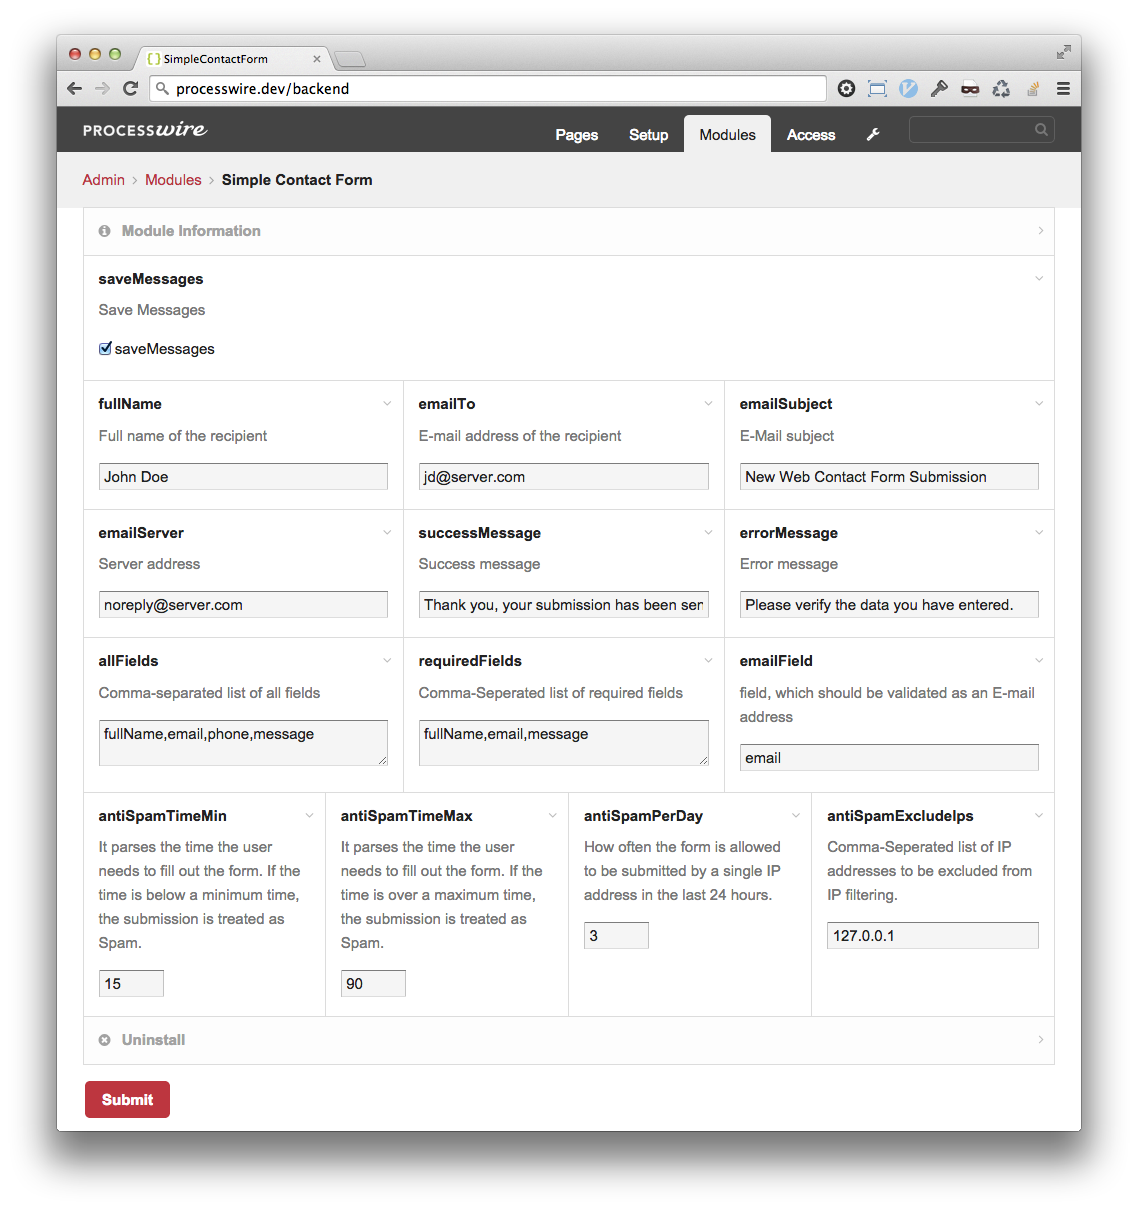
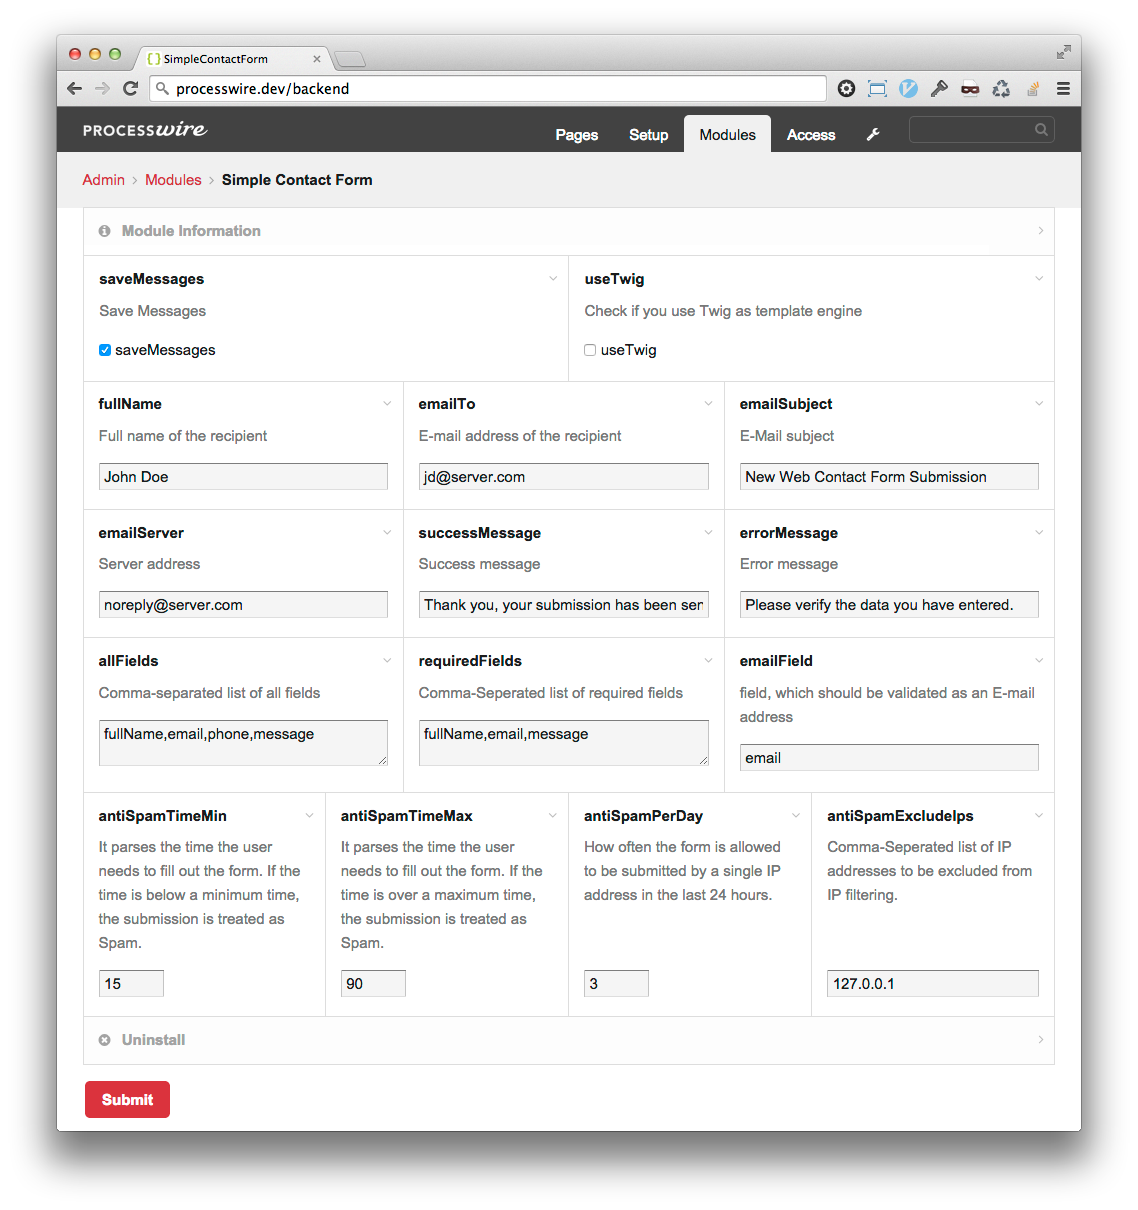
adding template exists check

diff --git a/README.md b/README.md
@@ -2,49 +2,60 @@
 
 ## Overview:
 
-Just a simple contact form using Twig (TemplateTwigReplace). Not more and not less.
-See the instructions here: [TemplateTwigReplace](http://modules.processwire.com/modules/template-twig-replace)
+Just a simple contact form. Optional support for Twig ([TemplateTwigReplace](http://modules.processwire.com/modules/template-twig-replace)) as template engine. Not more and not less.
 
-Designed for use with ProcessWire 2.4
-[http://processwire.com](http://processwire.com)
+Designed for use with [ProcessWire](http://processwire.com) version 2.5  
+Current version: 0.0.6 stable
 
-## Installation and Usage:
+## Installation:
 
 1. Clone the module and place SimpleContactForm in your site/modules/ directory. 
 
-```
-git clone https://github.com/justonestep/processwire-simplecontactform.git your/path/site/modules/SimpleContactForm
-```
+	```
+	git clone https://github.com/justonestep/processwire-simplecontactform.git your/path/site/modules/SimpleContactForm
+	```
 
 2. Login to ProcessWire admin and click Modules. 
 3. Click "Check for new modules".
 4. Click "install" next to the new SimpleContactForm module. 
 5. Enter settings similar to the example below:
 
-```
-saveMessages: whether to save received messages
-fullName: Firstname Lastname
-emailTo: xxx@xxx.xx
-emailSubject: New Web Contact Form Submission
-successMessage: Thank you, your submission has been sent
-errorMessage: Please verify the data you have entered
-emailServer: noreply@xxx.xx
-allFields: fullName,email,message
-requiredFields: fullName,email,message
-emailField: email
-antiSpamTimeMin: It parses the time the user needs to fill out the form. If the time is below a minimum time, the submission is treated as Spam.
-antiSpamTimeMax: It parses the time the user needs to fill out the form. If the time is over a maximum time, the submission is treated as Spam.
-antiSpamPerDay: How often the form is allowed to be submitted by a single IP address in the last 24 hours.
-antiSpamExcludeIps: Comma-Seperated list of IP addresses to be excluded from IP filtering.
-```
+| setting            | description                                                                                                                      |
+|--------------------|----------------------------------------------------------------------------------------------------------------------------------|
+| saveMessages       | whether to save received messages                                                                                                |
+| useTwig            | Check if you use Twig as template engine                                                                                         |
+| fullName           | Firstname Lastname                                                                                                               |
+| emailTo            | xxx@xxx.xx                                                                                                                       |
+| emailSubject       | New Web Contact Form Submission                                                                                                  |
+| successMessage     | Thank you, your submission has been sent                                                                                         |
+| errorMessage       | Please verify the data you have entered                                                                                          |
+| errorMessage       | noreply@xxx.xx                                                                                                                   |
+| allFields          | fullName,email,message                                                                                                           |
+| requiredFields     | fullName,email,message                                                                                                           |
+| emailField         | email                                                                                                                            |
+| antiSpamTimeMin    | It parses the time the user needs to fill out the form.  If the time is below a minimum time, the submission is treated as Spam. |
+| antiSpamTimeMax    | It parses the time the user needs to fill out the form.  If the time is over a maximum time, the submission is treated as Spam.  |
+| antiSpamPerDay     | How often the form is allowed to be submitted by a single IP address in the last 24 hours.                                       |
+| antiSpamExcludeIps | Comma-Seperated list of IP addresses to be excluded from IP filtering.                                                           |
 
-These fields will be rendered automatically.
-Therefore a new template called `simple_contact_form.twig` will be created in your `site/templates` directory.
+### New Template "simple_contact_form"
+
+* change type="input" due to your own needs
+* hide following fields using css: scf-website, submitted
+* make sure to mainain the names of the fields
+
+tl;dr: These fields will be rendered automatically.
+Therefore a new template called `simple_contact_form.twig` / `simple_contact_form.php` will be created in your `site/templates` directory.
 All fields in this new template will be simple inputs temporarily.
 Once created you can/should modify the template as well as the fields to your own needs, 
-just make sure to maintain the names of the fields.
+just make sure to maintain the names of the fields. 
 
-If `saveMessages` is enabled, a new page `scf-messages` will be created.
+### saveMessages enabled? 
+
+* new page **scf-messages** (your-url.xx/scf-messages)
+* new template **simple_contact_form**
+
+tl;dr: If `saveMessages` is enabled, a new page `scf-messages` will be created.
 Also a new repeater field containing all set up fields is added.
 For each received message a new repeater element is stored.
 The new template `simple_contact_form_messages.twig` which is created for this page checks 
@@ -54,34 +65,41 @@ Otherwise the user will be redirected to the root page.
 Failing that the user will be redirected to the root page.
 You can modify that templates for your own needs.
 
-6. Create a template for your contact form page (if you don't already have one).
-7. Add the fields you want to use to this template as you are used to.
-8. In the template add just one line to include the form:
+## Usage:
 
-```
-{{modules.get('SimpleContactForm').render()}}
-```
+1. Create a template for your contact form page (if you don't already have one).
+2. Add the fields you want to use to this template as you are used to.
+3. In the template add just one line to include the form:
 
-9. If you want to send the form via ajax, include jquery.simplecontactform.js and call it:
+	```php
+	{{modules.get('SimpleContactForm').render()}} // twig
+	$content = $modules->get('SimpleContactForm')->render(); //php
+	```
 
-```
-if ($('.js-simplecontactform').length) {
-	$.simplecontactform($('.js-simplecontactform'));
-}
-```
+4. If you want to send the form via ajax, include jquery.simplecontactform.js and call it:
 
-To get just the necessary part, modify yout template like this:
+	```javascript
+	if ($('.js-simplecontactform').length) {
+		$.simplecontactform($('.js-simplecontactform'));
+	}
+	```
 
-```
-{% if config.ajax %}
-	{{modules.get('SimpleContactForm').render()}}
-{% else %}
-	{# normal stuff ... #}
-{% endif %}
-```
+	To get just the necessary part, modify yout template like this:
+
+	```html
+	{% if config.ajax %}
+		{{modules.get('SimpleContactForm').render()}}
+	{% else %}
+		{# normal stuff ... #}
+	{% endif %}
+	```
 
 ## Screenshots:
 
 **Module Settings**
 
 ![screenshot](screens/settings.png)
+
+**Example scf-messages**
+
+![screenshot](screens/received-messages.png)
